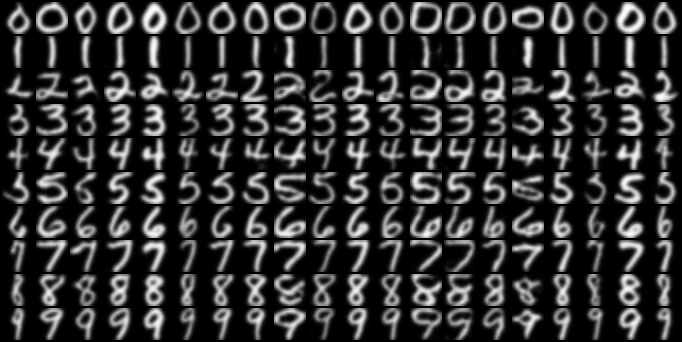
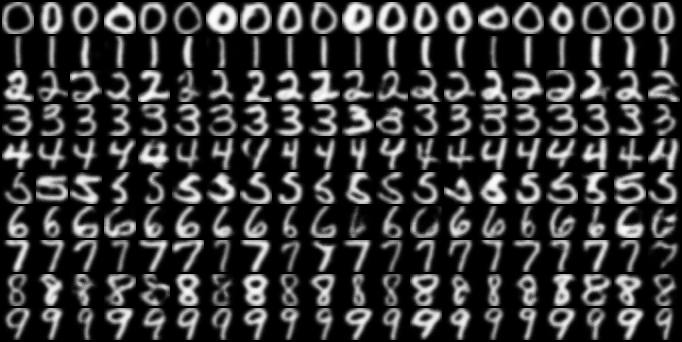
Add files via upload

diff --git a/cGAN.py b/cGAN.py
@@ -33,14 +33,11 @@ else:
 
 # Directories for storing data, model and output samples
 db_path = os.path.join('./data', DB)
-if not os.path.exists(db_path):
-    os.makedirs(db_path)
+os.makedirs(db_path, exist_ok=True)
 model_path = os.path.join('./model', DB)
-if not os.path.exists(model_path):
-    os.makedirs(model_path)
+os.makedirs(model_path, exist_ok=True)
 samples_path = os.path.join('./samples', DB)
-if not os.path.exists(samples_path):
-    os.makedirs(samples_path)
+os.makedirs(samples_path, exist_ok=True)
 
 # Data loader
 transform = transforms.Compose([transforms.Resize([32, 32]),
@@ -59,8 +56,12 @@ else:
     print("Incorrect DB")
     exit(0)
 
-data_loader = torch.utils.data.DataLoader(dataset=dataset, batch_size=BATCH_SIZE, shuffle=True, num_workers=4,
-                                          drop_last=True)
+data_loader = torch.utils.data.DataLoader(dataset=dataset, 
+                                        batch_size=BATCH_SIZE, 
+                                        shuffle=True, 
+                                        num_workers=4,
+                                        drop_last=True)
+
 
 # Method for storing generated images
 def generate_imgs(z, fixed_label, epoch=0):
@@ -69,6 +70,7 @@ def generate_imgs(z, fixed_label, epoch=0):
     fake_imgs = (fake_imgs + 1) / 2
     fake_imgs_ = vutils.make_grid(fake_imgs, normalize=False, nrow=IMGS_TO_DISPLAY_PER_CLASS)
     vutils.save_image(fake_imgs_, os.path.join(samples_path, 'sample_' + str(epoch) + '.png'))
+
 
 # Networks
 def conv_block(c_in, c_out, k_size=4, stride=2, pad=1, use_bn=True, transpose=False):
@@ -163,8 +165,7 @@ d_opt = optim.Adam(dis.parameters(), lr=0.0002, betas=(0.5, 0.999), weight_decay
 loss_fn = nn.BCELoss()
 
 # Fix images for viz
-fixed_z = torch.randn(1, IMGS_TO_DISPLAY_PER_CLASS, Z_DIM)
-fixed_z = torch.repeat_interleave(fixed_z, NUM_CLASSES, 0).reshape(-1, Z_DIM)
+fixed_z = torch.randn(IMGS_TO_DISPLAY_PER_CLASS*NUM_CLASSES, Z_DIM)
 fixed_label = torch.arange(0, NUM_CLASSES)
 fixed_label = torch.repeat_interleave(fixed_label, IMGS_TO_DISPLAY_PER_CLASS)
 
